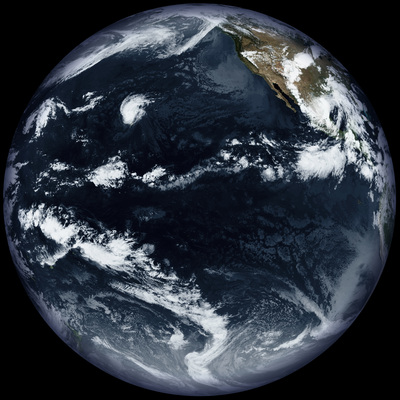
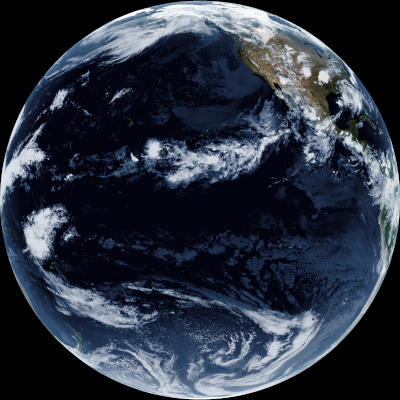
Update sample images and documentation

diff --git a/README.md b/README.md
@@ -15,18 +15,20 @@ Need to talk about migration
 [![Github All Releases](https://img.shields.io/github/downloads/nullpainter/sanchez/total.svg)]()
 ![Happiness](https://img.shields.io/badge/happiness-100%25-orange)
 
-<a href="Documentation/Himawari-8.jpg"><img src="Documentation/Himawari-8-thumb.jpg" title="Himawari 8" align="left"></a>
-<a href="Documentation/GK-2A.jpg"><img src="Documentation/GK-2A-thumb.jpg" title="GK-2A"></a>
+<a href="Documentation/Equirectangular-stitched.jpg"><img src="Documentation/Equirectangular-stitched-thumb.jpg" title="Reprojectd GK-2A, Himawari-8, GOES-16 and GOES-17" align="left"></a><br/>
 <a href="Documentation/GOES-16.JPG"><img src="Documentation/GOES-16-thumb.jpg" title="GOES-16" align="left"></a>
-<a href="Documentation/GOES-17.jpg"><img src="Documentation/GOES-17-thumb.jpg"  title="GOES-17"></a>
+<a href="Documentation/GOES-17.jpg"><img src="Documentation/GOES-17-thumb.jpg" title="GOES-17"></a>
 
 **Sanchez brings your dull IR satellite images to life.**
 
-Utilising a full-colour, high resolution, static ~~ándale~~ underlay image, combining it with a single greyscale IR satellite image, an optional mask and overlay and some zhushing, Sanchez will create beautiful images to be proud of.
+Utilising a full-colour, high resolution, static ~~ándale~~ underlay image, combining it with a single greyscale IR satellite image, and some serious maths, Sanchez will create beautiful images to be proud of.
 
 This could be considered cheating, but this is the approach that NASA used to utilise for older weather satellites. If it's good enough for NASA, it should be good enough for you.
 
-If you provide a mask image, you can compensate for discrepancies in scale or distortion between the satellite image and the full-colour image. Sanchez also provides options for batch conversion, colour tinting, an overlay for text or other imagery, brightness and contrast adjustment.
+Sanchez can bring colour to full-disc images, but it can also reproject and blend images from multiple satellites - either creating a flat projected image, or by creating a virtual satellite image at a given longitude.
+
+Full documentation with examples of all options is available in the [wiki](https://github.com/nullpainter/sanchez/wiki). 
+
 
 _¡Arriba, Arriba! ¡Ándale, Ándale!_
 
@@ -40,58 +42,92 @@ Releases are available for Raspberry Pi, Linux, Mac OS X and Windows. [Head on o
 
 For Raspberry Pi, pick the ARM build.
 
-## Image resources
-
-Sample underlays, masks and IR images for Himawari-8, GK-2A, GOES-16 and GOES-17 are in the [Resources](Sanchez/Resources) folder. Each satellite has an underlay which matches the pixel dimensions of the IR image, and an additional high-resolution underlay. It is recommended to use the high-resolution underlay unless you care about pixel-perfect IR.
-
 ## Usage
 
-All images are expected to be the same aspect ratio. If images are different sizes - for example, when using the high-resolution underlays - source images will be scaled up.
-
-The tint is optimised for Himawari-8 and GOES. For GK-2A, you may find a tint of `#0070ba` to better suited.
+### Common arguments
 
 ```
-  -u, --underlay      Required. Path to full-colour underlay image
+  -b, --brightness        (Default: 1) Brightness adjustment
 
-  -s, --source        Required. Path to IR satellite image(s)
+  -d, --tolerance         (Default: 30) Time tolerance in minutes in identifying suitable satellite images when combining
 
-  -m, --mask          Optional path to mask image
+  -D, --definitions       Path to custom satellite definitions
 
-  -O, --overlay       Optional path to overlay image
+  -i, --interpolation     (Default: B) Interpolation type. Valid values are N (nearest neighbour), B (bilinear)
 
-  -o, --output        Required. Path to output file or folder
+  -f, --force             (Default: false) Force overwrite existing output file
 
-  -t, --tint          (Default: 5ebfff) Tint to apply to satellite image
+  -L, --noadjustlevels    (Default: false) Don't perform histogram equalisation on satellite imagery
 
-  -b, --brightness    (Default: 1.0) Brightness adjustment
+  -o, --output            Required. Path to output file or folder
 
-  -S, --saturation    (Default: 0.7) Saturation adjustment
+  -p, --parallel          (Default: 1) Number of files to process in parallel
 
-  -q, --quiet         (Default: false) Don't provide any console output
+  -q, --quiet             (Default: false) Don't perform console output
 
-  -f, --force         (Default: false) Force overwrite existing output file
+  -r, --resolution        (Default: 4) Output spatial resolution in km; valid values are 2 or 4
 
-  -T, --threads       (Default: CPU core count) Number of threads to use for batch processing
+  -s, --source            Required. Path to IR satellite image(s)
 
-  --help              Display this help screen.
+  -S, --saturation        (Default: 0.7) Saturation adjustment
 
-  --version           Display version information.
+  -t, --tint              (Default: 1b3f66) Tint to apply to satellite image
+
+  -T, --timestamp         Target timestamp in UTC if combining multiple files; e.g. 2020-12-20T23:00:30
+
+  -u, --underlay          Path to custom full-colour underlay image
+
+  -U, --nounderlay        If no underlay should be rendered
+
+  -v, --verbose           (Default: false) Verbose console output
+
+  --help                  Display this help screen.
+
+  --version               Display version information.
+```
+
+### Geostationary (full disc) compositing
 
 ```
+  -l, --longitude         Target longitude for geostationary satellite projection
+
+  -h, --haze              (Default: 0.2) Amount of haze to apply to image; valid values are between 0 (no haze) and 1 (full haze)
+```
+
+
+### Equirectangular projection
+
+```
+  -a, --autocrop          (Default: false) Whether to create an automatically cropped image. Only applicable when stitching.
+
+  -m, --mode              (Default: Batch) Whether source images are stitched together or rendered individually in a batch
+```
+
 
 ### Sample usage
 
 #### Batch
 
+Sanchez automatically identifies target images based on known file prefixes, so to convert multiple images, just specify the input and output folders:
+
 ```
-./Sanchez -s "c:\images\Himawari8\**\*-IR*.jpg" -m Resources\Mask.jpg -u Resources\Himawari-8\Underlay-Hirez.jpg -o Output
+./Sanchez -s "c:\images\Himawari8" -o Output
 ```
 
 #### Single image
 
 ```
-./Sanchez -s "c:\images\Himawari8\**\Himawari8_FD_VS_20200727T005100Z.jpg" -m Resources\Mask.jpg -u Resources\Himawari-8\Underlay-Hirez.jpg -o Output.jpg -t "#0096FA"
+./Sanchez -s "c:\images\Himawari8\**\Himawari8_FD_VS_20200727T005100Z.jpg" -o Output.jpg"
 ```
+
+#### Multiple satellite stitching with auto-crop
+
+```
+./Sanchez reproject -s c:\images -o stitched.jpg --mode stitch -T 2020-08-30T03:50:20 -fa
+```
+
+More examples are available in the [wiki](https://github.com/nullpainter/sanchez/wiki).  
+
 
 ## Tint formats
 
@@ -122,11 +158,3 @@ Note that patterns with wildcards should be quoted with `""` on shells that do w
 ## Logging
 
 Detailed logs are written to disk in the `logs` directory relative to the directory where Sanchez is called from.
-
-## Creating underlay images
-
-NASA's collection of [Blue Marble](https://visibleearth.nasa.gov/collection/1484/blue-marble) images is an excellent source of high resolution underlay images.
-
-In order to correctly projection map photos from geostationary satellites, the [Cartophy](https://scitools.org.uk/cartopy/docs/latest/) Python library can be used. Sample code is in the [Tools](Tools) directory. If you just want to create a high resolution globe and don't need to worry about precise projection, NASA's [G.Projector](https://www.giss.nasa.gov/tools/gprojector/) application is useful.
-
-This is the approach, software and source images used for the sample underlay images in the [Resources](Sanchez/Resources) folder.
